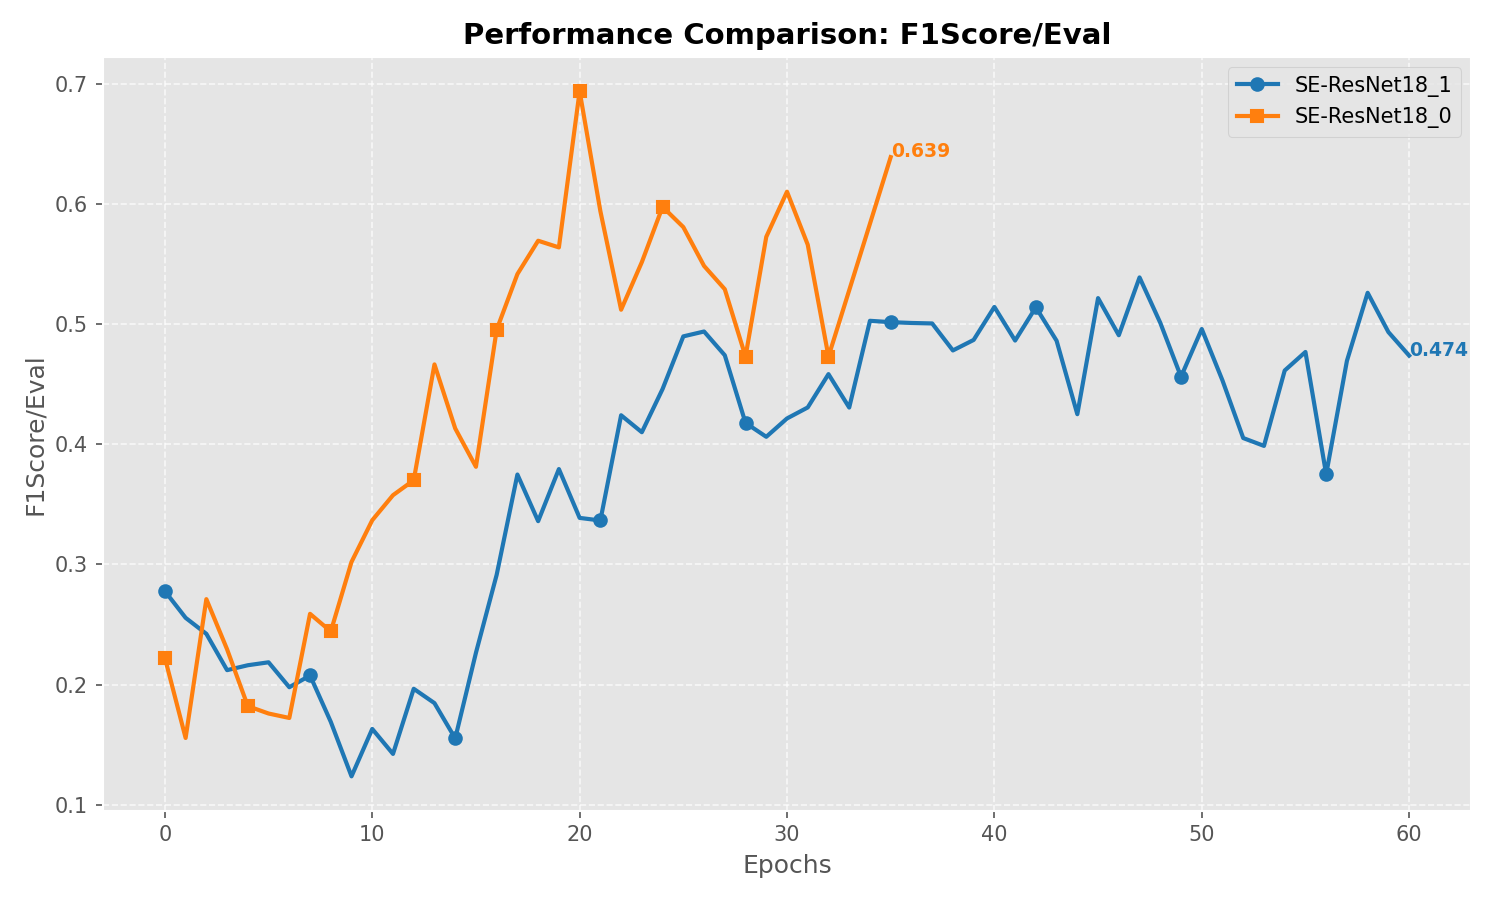
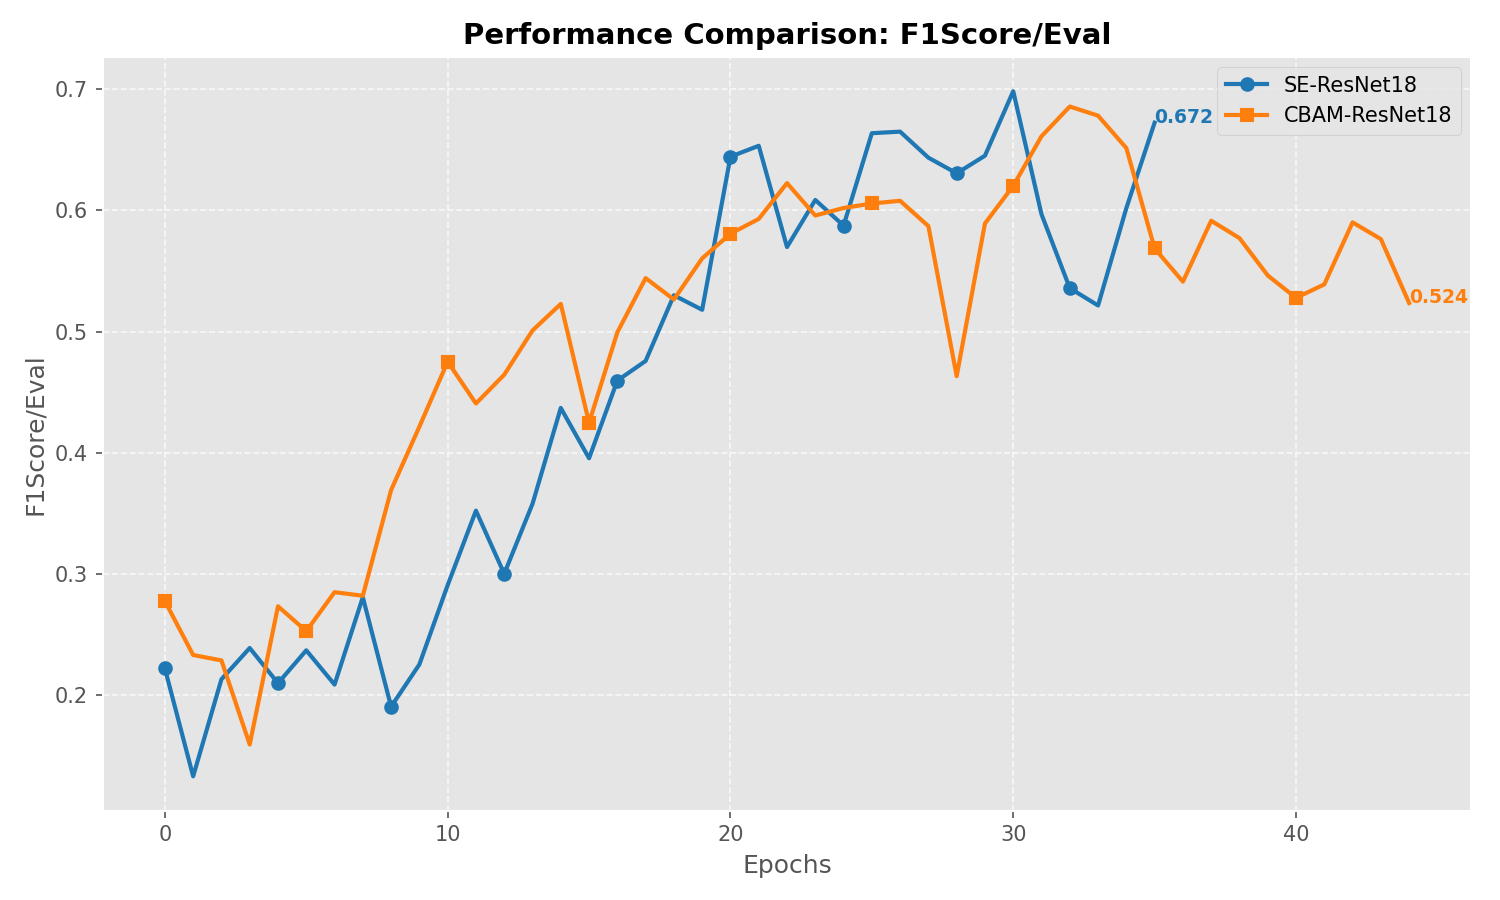
我要崩溃了

diff --git a/hagrid_v3/run.py b/hagrid_v3/run.py
@@ -29,7 +29,7 @@ def parse_arguments(params: Optional[Tuple] = None) -> argparse.Namespace:
 
     # -c / --command: 可选参数，指定运行模式 ，choices=("train", "test") 限制只能输入 train 或 test (默认值为 train)
     parser.add_argument(
-        "-c", "--command", required=False, type=str, default="train", help="Training or test pipeline", choices=("train", "test")
+        "-c", "--command", required=False, type=str, default="test", help="Training or test pipeline", choices=("train", "test")
     )
     # -p / --path_to_config: 可选参数，YAML 配置文件的路径默认(configs/ResNet18.yaml)
     parser.add_argument("-p", "--path_to_config", required=False, type=str, default="hagrid_v3\configs\cbam_resnet18.yaml   ", help="Path to config")

diff --git a/results/plot_results.py b/results/plot_results.py
@@ -12,9 +12,8 @@ from tensorboard.backend.event_processing.event_accumulator import EventAccumula
 EXPERIMENTS = {
     #"ResNet18_without_pretrained(Baseline)": "work_dir/ResNet18/logs",
     #"ResNet18_with_pretrained": "work_dir/ResNet18_with_pretrained/logs",
-    "SE-ResNet18_1":        "hagrid_v2/work_dir/SE_ResNet18_Attention/logs/train",
-    #"CBAM-ResNet18":      "hagrid_v2/work_dir/CBAM_ResNet18_Attention/logs/train",
-    "SE-ResNet18_0":        "hagrid_v2/work_dir/SE_ResNet18_Attention/logs",
+    "SE-ResNet18":        "hagrid_v3/work_dir/SE_ResNet18_Attention/logs/train",
+    "CBAM-ResNet18":      "hagrid_v3/work_dir/CBAM_ResNet18_Attention/logs/train",
 }
 
 # 2. 你想画什么指标？(去 TensorBoard 网页版确认一下 Tag 名字)

diff --git a/hagrid_v3/models/__init__.py b/hagrid_v3/models/__init__.py
@@ -1,5 +1,5 @@
 from functools import partial
-from torchvision import models
+#from torchvision import models
 
 # 自己写的模型
 from .classifiers.se_resnet import se_resnet18
@@ -18,5 +18,5 @@ classifiers_list = {
     "SE_ResNet18": partial(ClassifierModel, model=se_resnet18),
     "CBAM_ResNet18": partial(ClassifierModel, model=cbam_resnet18),
     # 其他模型
-    "ResNet18": partial(ClassifierModel, models.resnet18),
+    #"ResNet18": partial(ClassifierModel, models.resnet18),
 }

diff --git a/hagrid_v3/dataset.py b/hagrid_v3/dataset.py
@@ -15,7 +15,6 @@ from tqdm import tqdm
 # 导入支持的图片扩展名
 from constants import IMAGES
 
-
 class HagridDataset(Dataset):
     """
     HaGRID 数据集的基类
